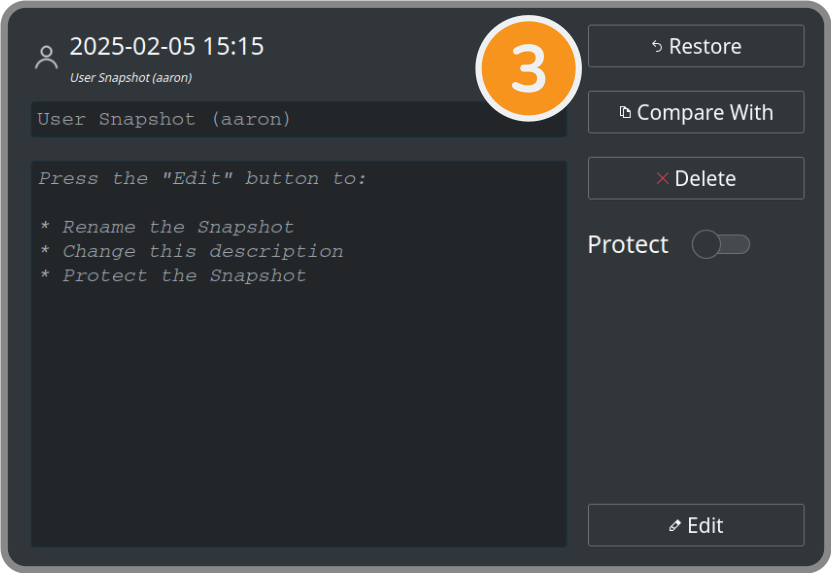
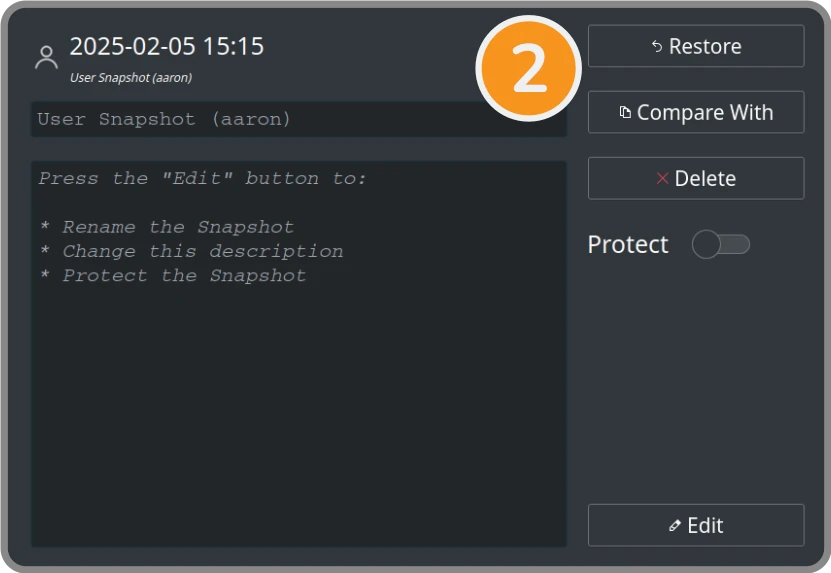
Release firstrun-bin/24.04.5, rollback/24.04.7

diff --git a/package-firstrun-bin/main.qml b/package-firstrun-bin/main.qml
@@ -821,7 +821,6 @@ Kirigami.ApplicationWindow {
         switchPageFn(getCurrentPageIdFn());
     }
 
-
     function populateCheckboxesFn () {
         const check_map = stateMatrix.check_map;
         for ( var i = 0; i < sidebarModel.count; i++ ) {
@@ -1345,10 +1344,9 @@ Kirigami.ApplicationWindow {
               = '<p><b>The System Rollback tool</b> snapshots and restores '
               + 'system files upon request, allowing you to quickly recover '
               + 'from failed upgrades, kernel issues, and other OS problems. '
-              + 'If desired, it can automatically take snapshots both '
-              + 'periodically and before software updates, however '
-              + '<b>automatic snapshots are not enabled by '
-              + 'default.</b><br></p>'
+              + 'It can automatically take snapshots both '
+              + 'periodically and before software updates, although this '
+              + 'is not enabled by default.<br></p>'
 
               + '<p><b>System Rollback does not snapshot files in /home.</b> '
               + 'For more info, see the '
@@ -1373,32 +1371,34 @@ Kirigami.ApplicationWindow {
             headerHighlightRect.color = '#27ae60';
             interTopHeading.text      = 'Proceed with System Rollback...';
             instructionsText.text
-              = '<p>' + ding01Str + '<b>To enable automatic snapshots</b>, '
-              + 'switch the <b>Automatic Snapshots</b> switch on.<br></p>'
+              = '<p>' + ding01Str + '<b>Click on the System Rollback '
+              + 'Dashboard</b> icon to start the app. Use this to '
+              + 'create and manage snapshots at any time.<br></p>'
 
-              + '<p>' + ding02Str + '<b>The rollback quick launch icon</b> '
-              + 'will immediately display the System Rollback app. You can '
-              + 'create snapshots here at any time.<br></p>'
+              + '<p>' + ding02Str + '<b>Click on Create New Snapshot</b> '
+              + 'in the top-left panel. After providing your password, '
+              + 'a new snapshot should appear in the snapshot list.'
+              + '<br></p>'
 
-              + '<p>' + ding03Str + '<b>To restore a snapshot</b>, select '
-              + 'the snapshot to restore, then click <b>Restore</b>. The '
-              + 'system will reboot.<br></p>'
+              + '<p>' + ding03Str + '<b>Click on Edit</b> in the '
+              + 'bottom-right panel to change the name and description, '
+              + 'then click <b>Save</b>.<br></p>'
 
               + '<p><b>See more in the</b> '
-              + '<a href="https://kfocus.org/wf/tools#rollback">Tools Guided '
-              + 'Solution.</a></p>'
+              + '<a href="https://kfocus.org/wf/rollback">System '
+              + 'Rollback</a> Guided Solution.</a></p>'
               ;
+
             interActionButton.text      = 'Continue';
             interActionButton.icon.name = 'arrow-right';
             interImageList = [
-              'rollback-autosnapshot.webp',
-              'rollback-systray.svg',
-              'rollback-restore.webp'
+              'rollback-systray.webp',
+              'rollback-create.webp',
+              'rollback-edit.webp'
             ];
             actionName = 'nextPage';
             regenUiFn( interTemplatePage, false );
             break;
-
 
         case 'fileBackupItem':
             initPageFn([
@@ -1997,7 +1997,6 @@ Kirigami.ApplicationWindow {
             break;
         }
     }
-
 
     function storeStateMatrixFn () {
         let serial_str;

diff --git a/package-rollback/src/kfocus-rollback-bin/main.qml b/package-rollback/src/kfocus-rollback-bin/main.qml
@@ -136,8 +136,12 @@ Kirigami.ApplicationWindow {
 
               <p><b><font color="#f7941d">` + automaticSnapshotsLabel
               + `</font></b> - When enabled, take snapshots without
-              intervention before apt software changes; or at least once a
-              week.</p>
+              intervention before system software changes; or at least once
+              a week.<br><br>
+
+             <i>Automatic snapshots provide additional safety, but
+             requires more oversight to avoid filling the
+             disk.</i></p>
 
               <p><b><font color="#f7941d">` + calculateSnapshotSizesLabel
               + `</font></b> - Calculate and display the estimated space
@@ -145,14 +149,14 @@ Kirigami.ApplicationWindow {
               amount of space shown.</p>
 
               <p><b><font color="#f7941d">` + createSnapshotLabel
-              + `</font></b> - Immediately create a snapshot of the
+              + `</font></b> - Create a snapshot of the
               current root (<code>/</code>) and and boot
               (<code>/boot</code>) filesystems.</p>
 
               <p><b><font color="#f7941d">` + optimizeDiskLabel
               + `</font></b> - Delete all snapshots, defragment files as
-              needed, recover unreachable space, and consolidate data on the
-              boot disk.</p>`
+              needed, recover unreachable space, and consolidate data
+              on the boot disk.</p>`
 
             helpTitle: 'Global Actions Help'
         }
